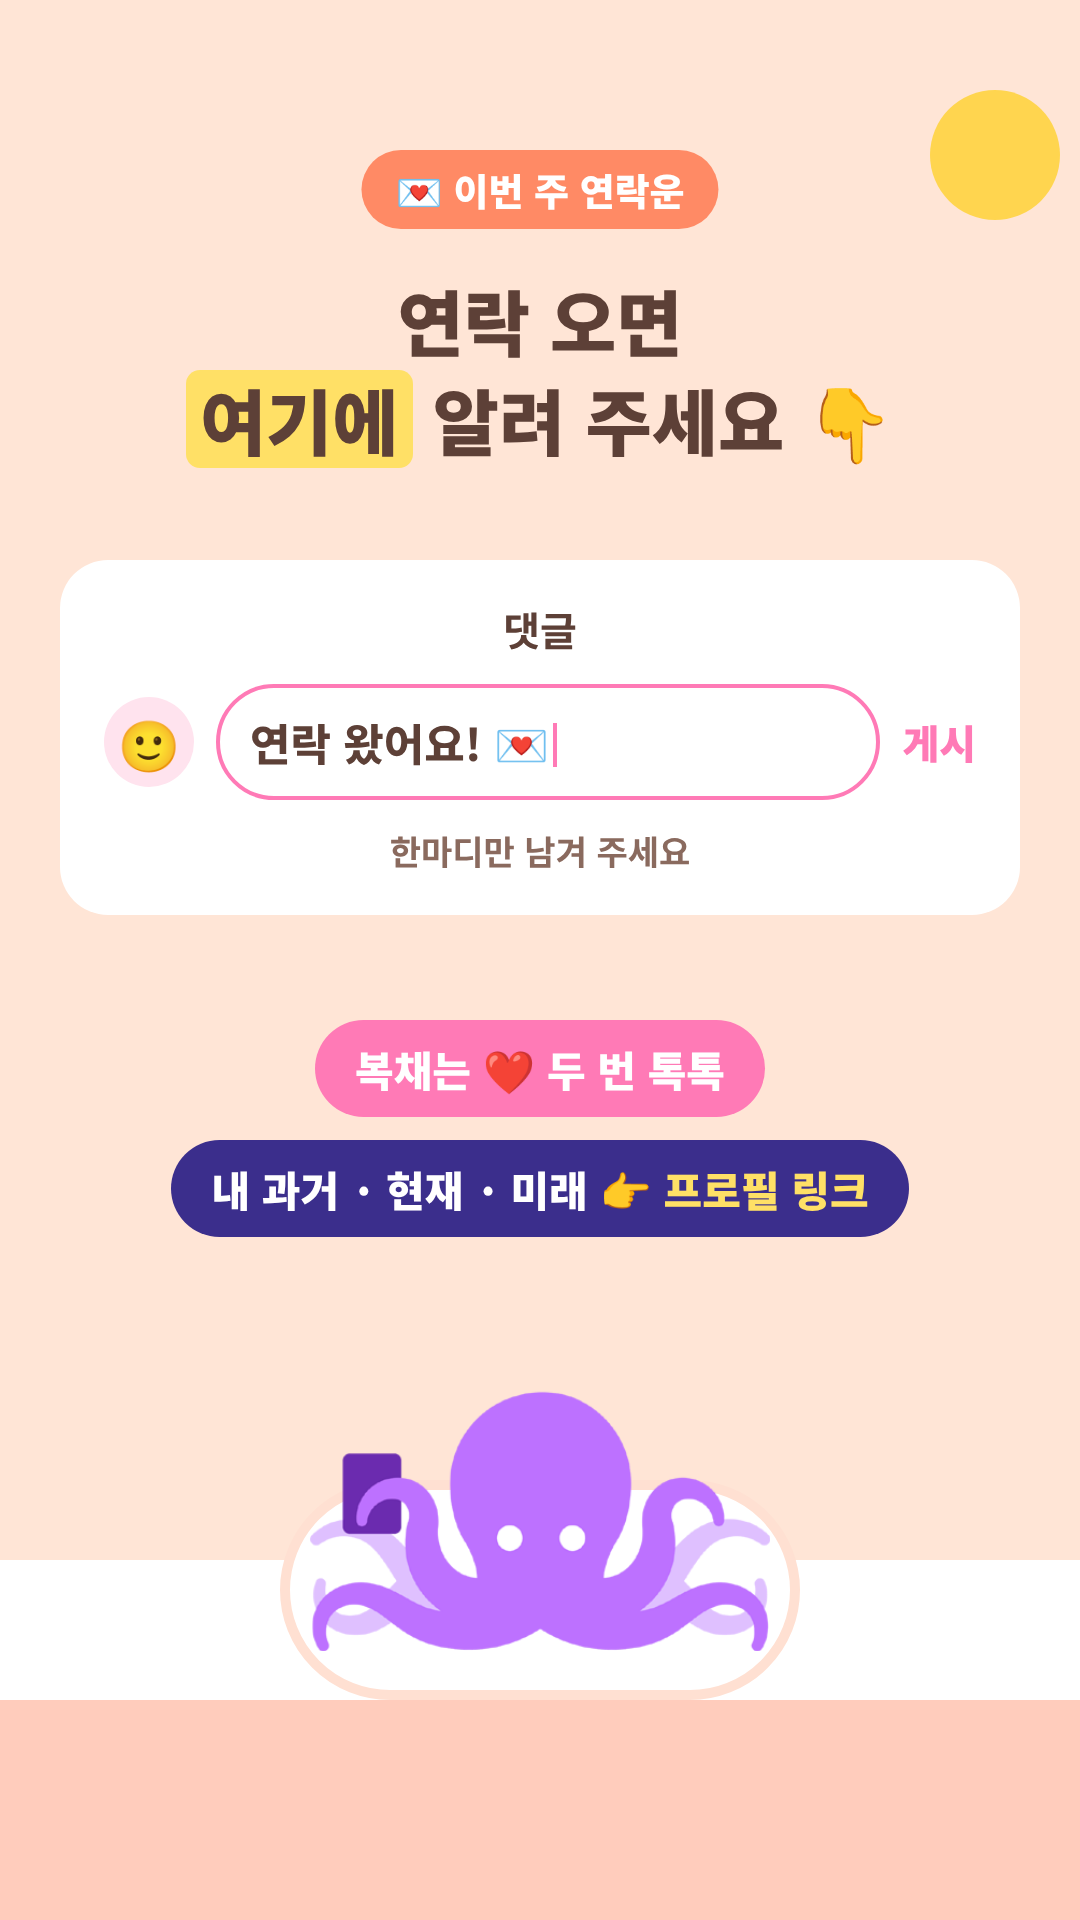
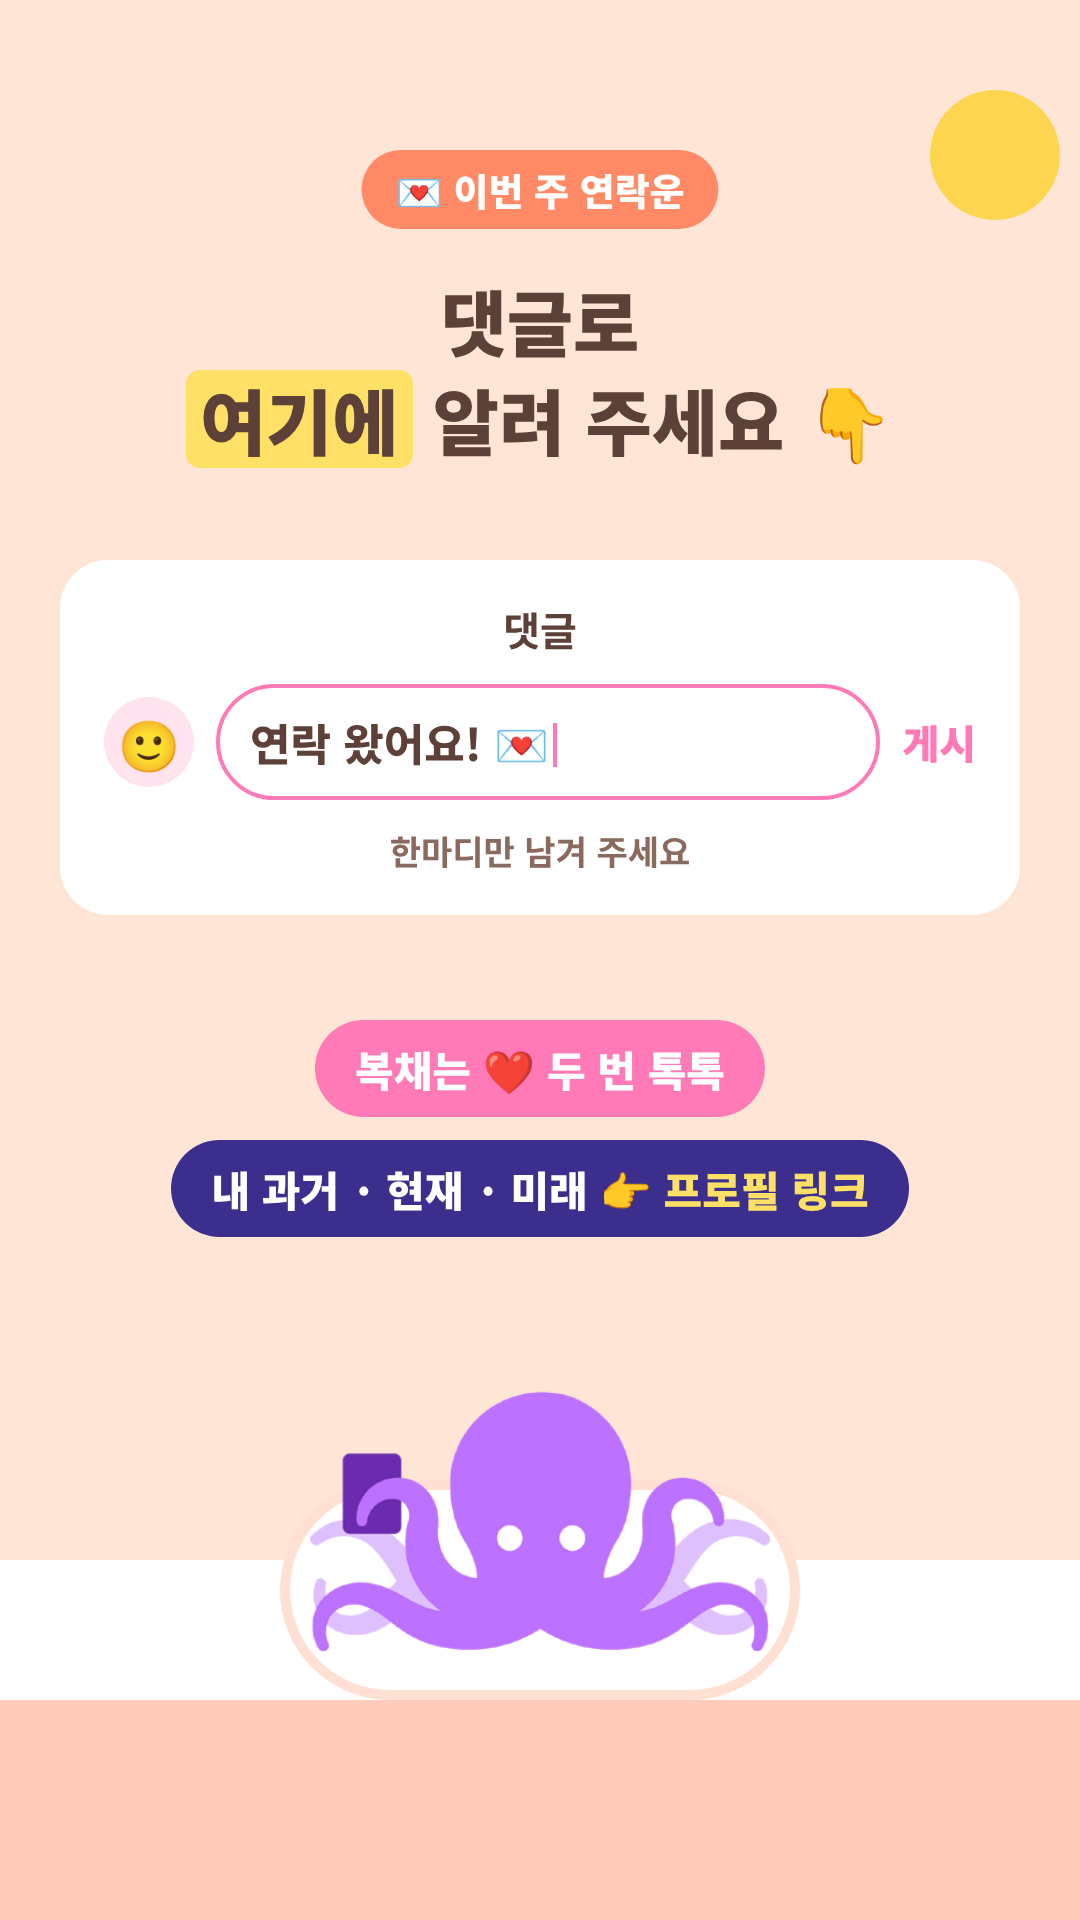
연락운 머리맡 알림 ⑦: 제목을 '댓글로 여기에 알려 주세요'로
Claude-Session: https://claude.ai/code/session_01CejgdC5FKbbZMnpaYgrfgJ

Changed region(s): [[0.3667, 0.125, 0.6417, 0.1875]]

diff --git a/promo/src/reel_mcall_07_end.html b/promo/src/reel_mcall_07_end.html
@@ -38,7 +38,7 @@
 .hint{margin-top:26px;text-align:center;font-size:34px;color:#8a6a5e;font-weight:700}</style></head><body>
 <div class="f" id="frame">
 <span class="bd">💌 이번 주 연락운</span><div class="sunw"></div>
-<p class="t" style="top:270px">연락 오면<br><span class="mk">여기에</span> 알려 주세요 👇</p>
+<p class="t" style="top:270px">댓글로<br><span class="mk">여기에</span> 알려 주세요 👇</p>
 <div class="sheet"><h4>댓글</h4>
 <div class="cmt"><div class="av">🙂</div><div class="inp">연락 왔어요! 💌<i></i></div><span class="snd">게시</span></div>
 <p class="hint">한마디만 남겨 주세요</p></div>
